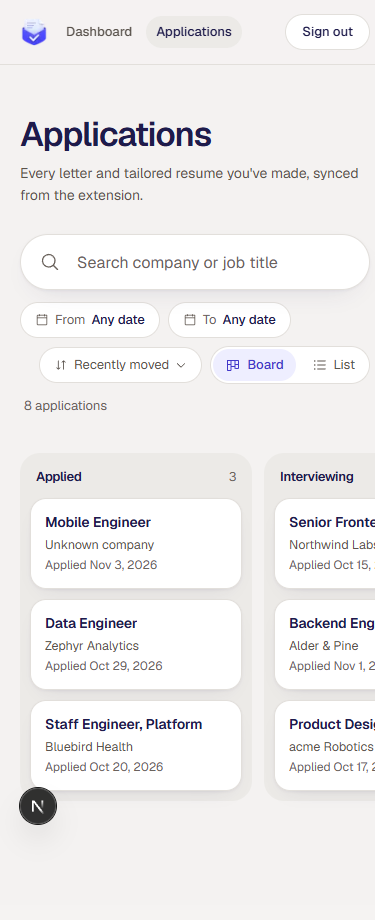
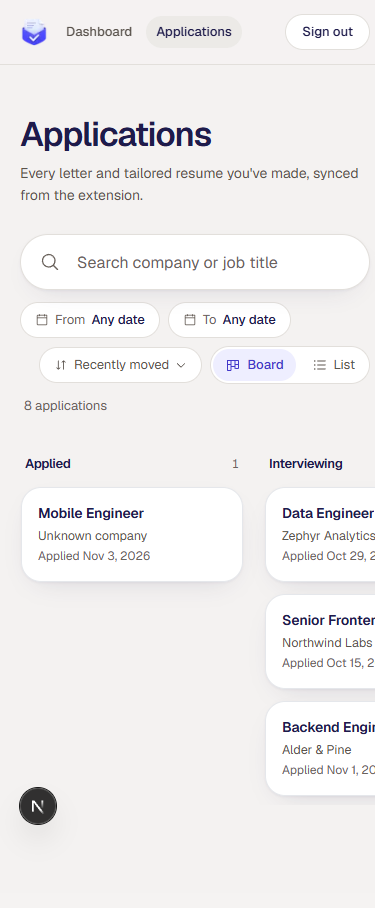
Board review fixes: tiles on paper, ToggleGroup view switch, focus follows a moved card, clearer cap text (#100)

diff --git a/web/app/dashboard/applications/ApplicationsBrowser.tsx b/web/app/dashboard/applications/ApplicationsBrowser.tsx
@@ -7,8 +7,9 @@ import { Button } from '@/components/ui/button'
 import { DropdownMenu, DropdownMenuContent, DropdownMenuLabel, DropdownMenuRadioGroup, DropdownMenuRadioItem, DropdownMenuTrigger } from '@/components/ui/dropdown-menu'
 import { Input } from '@/components/ui/input'
 import { Toggle } from '@/components/ui/toggle'
+import { ToggleGroup, ToggleGroupItem } from '@/components/ui/toggle-group'
 import { dayRange, PAGE_LIMIT, SORT_LABEL, SORTS, sortApplications, STAGE_LABEL, STAGES, type ApplicationSummary, type ApplicationsPage, type ApplicationsQuery, type Sort, type Stage, type StageState } from '@/lib/applications'
-import { GONE, setStage } from '@/lib/application-actions'
+import { GONE, GONE_MESSAGE, setStage } from '@/lib/application-actions'
 import { createLatestSearch } from '@/lib/latest-search'
 import { ApplicationCard } from './ApplicationCard'
 import { ApplicationsBoard } from './ApplicationsBoard'
@@ -26,6 +27,8 @@ const stored = (key: string) => { try { return localStorage.getItem(key) } catch
 const store = (key: string, value: string) => { try { localStorage.setItem(key, value) } catch { /* not remembered */ } }
 
 const CHIP = 'h-9 gap-1.5 rounded-full border-line bg-surface px-3.5 text-[13px] font-normal text-ink-2 hover:bg-surface hover:text-ink data-[state=on]:border-[color-mix(in_srgb,var(--brand-strong)_40%,transparent)] data-[state=on]:bg-brand-tint data-[state=on]:font-medium data-[state=on]:text-brand-ink'
+
+const VIEW_ITEM = 'h-8 gap-1.5 rounded-full px-3 text-[13px] font-normal text-ink-2 hover:bg-transparent hover:text-ink data-[state=on]:bg-brand-tint data-[state=on]:font-medium data-[state=on]:text-brand-ink'
 
 async function load(query: ApplicationsQuery, signal: AbortSignal): Promise<ApplicationsPage> {
   const params = new URLSearchParams()
@@ -89,7 +92,8 @@ export function ApplicationsBrowser() {
   const range = dayRange(from, to)
   const query: ApplicationsQuery | null = range ? { q: text.trim(), ...range } : null
   const searched = Boolean(text.trim() || from || to)
-  const filtered = searched || (view === 'list' && stages.length > 0)
+  const stageFiltered = view === 'list' && stages.length > 0
+  const filtered = searched || stageFiltered
 
   // The first load runs at once; after that, changes wait for a short pause
   // (typing sends one search per pause, not per keystroke).
@@ -109,7 +113,7 @@ export function ApplicationsBrowser() {
   }
 
   const sorted = useMemo(() => sortApplications(applications, sort), [applications, sort])
-  const listed = view === 'list' && stages.length ? sorted.filter((a) => stages.includes(a.stage)) : sorted
+  const listed = stageFiltered ? sorted.filter((a) => stages.includes(a.stage)) : sorted
 
   function patch(id: string, state: StageState) {
     setApplications((list) => list.map((a) => (a.id === id ? { ...a, ...state } : a)))
@@ -135,23 +139,26 @@ export function ApplicationsBrowser() {
     const n = (moves.current.get(app.id) ?? 0) + 1
     moves.current.set(app.id, n)
     const was: StageState = { stage: app.stage, stageChangedAt: app.stageChangedAt }
-    patch(app.id, { stage, stageChangedAt: new Date().toISOString() })
+    // Kept as staged at once, so a search landing mid-save doesn't pull it back.
+    stageSaved(app.id, { stage, stageChangedAt: new Date().toISOString() })
     try {
       const saved = await setStage(app.id, stage)
       if (moves.current.get(app.id) === n) stageSaved(app.id, saved)
     } catch (e) {
       if (e instanceof Error && e.message === GONE) {
         removed(app.id)
-        toast.success('This application was already deleted.')
+        toast.success(GONE_MESSAGE)
         return
       }
       if (moves.current.get(app.id) !== n) return
-      patch(app.id, was)
+      stageSaved(app.id, was)
       toast.error(`Couldn't move it to ${STAGE_LABEL[stage]}, so it's back in ${STAGE_LABEL[was.stage]}. Try again.`)
     }
   }
 
   const shownCount = view === 'list' ? listed.length : applications.length
+  // The server caps after searching: with a search on, it's the newest matches.
+  const pool = searched ? `the newest ${PAGE_LIMIT} matches` : `your newest ${PAGE_LIMIT}`
   const statusText = !range
     ? 'The From date is after the To date.'
     : status === 'error'
@@ -160,10 +167,10 @@ export function ApplicationsBrowser() {
         ? 'Loading applications'
         : shownCount === 0
           ? (filtered ? 'No applications match' : 'No applications yet')
-          : filtered
-            ? `${shownCount} ${shownCount === 1 ? 'matches' : 'match'}${capped ? ` among the newest ${PAGE_LIMIT}` : ''}`
-            : capped
-              ? `Showing your newest ${PAGE_LIMIT}`
+          : capped
+            ? (stageFiltered ? `${shownCount} ${shownCount === 1 ? 'matches' : 'match'}, from ${pool}` : `Showing ${pool}`)
+            : filtered
+              ? `${shownCount} ${shownCount === 1 ? 'matches' : 'match'}`
               : `${shownCount} application${shownCount === 1 ? '' : 's'}`
   // Stays visible while a search loads (its text says so), so the bar keeps its height.
   const counted = range && status !== 'error' && shownCount > 0
@@ -172,7 +179,8 @@ export function ApplicationsBrowser() {
     setText('')
     setFrom('')
     setTo('')
-    setStages([])
+    // The board hides the stage filters, so its Clear leaves them for the list.
+    if (view === 'list') setStages([])
   }
 
   const dimmed = status === 'loading'
@@ -241,20 +249,18 @@ export function ApplicationsBrowser() {
                   </DropdownMenuRadioGroup>
                 </DropdownMenuContent>
               </DropdownMenu>
-              <div role="group" aria-label="View" className="flex items-center gap-1 rounded-full border border-line bg-surface p-0.5">
-                {(['board', 'list'] as const).map((v) => (
-                  <Toggle
-                    key={v}
-                    pressed={view === v}
-                    onPressedChange={(pressed) => { if (pressed) chooseView(v) }}
-                    size="sm"
-                    className="h-8 gap-1.5 rounded-full px-3 text-[13px] font-normal text-ink-2 hover:bg-transparent hover:text-ink data-[state=on]:bg-brand-tint data-[state=on]:font-medium data-[state=on]:text-brand-ink"
-                  >
-                    {v === 'board' ? <KanbanIcon size={15} aria-hidden /> : <ListBulletsIcon size={15} aria-hidden />}
-                    {v === 'board' ? 'Board' : 'List'}
-                  </Toggle>
-                ))}
-              </div>
+              <ToggleGroup
+                type="single"
+                aria-label="View"
+                value={view}
+                // Clicking the pressed one would leave neither on: ignored.
+                onValueChange={(value) => { if (value) chooseView(value as View) }}
+                size="sm"
+                className="gap-1 rounded-full border border-line bg-surface p-0.5"
+              >
+                <ToggleGroupItem value="board" className={VIEW_ITEM}><KanbanIcon size={15} aria-hidden />Board</ToggleGroupItem>
+                <ToggleGroupItem value="list" className={VIEW_ITEM}><ListBulletsIcon size={15} aria-hidden />List</ToggleGroupItem>
+              </ToggleGroup>
             </div>
           )}
         </div>
@@ -292,7 +298,7 @@ export function ApplicationsBrowser() {
         // The old results, dimmed and out of reach until the new ones replace them.
         <div inert={dimmed} className={dimmed ? 'opacity-60 transition-opacity' : 'transition-opacity'}>
           {view === 'board' ? (
-            <ApplicationsBoard applications={sorted} onMove={move} onDeleted={removed} onStageChange={stageSaved} filtered={searched} />
+            <ApplicationsBoard applications={sorted} onMove={move} onDeleted={removed} onStageChange={stageSaved} />
           ) : (
             <div className="grid grid-cols-1 gap-4 md:grid-cols-2">
               {listed.map((app) => (

diff --git a/web/app/dashboard/applications/ApplicationsBoard.tsx b/web/app/dashboard/applications/ApplicationsBoard.tsx
@@ -1,6 +1,6 @@
 'use client'
 
-import { useState, type ReactNode } from 'react'
+import { useEffect, useRef, useState, type ReactNode } from 'react'
 import { DndContext, DragOverlay, MouseSensor, useDraggable, useDroppable, useSensor, useSensors, type Announcements } from '@dnd-kit/core'
 import { STAGE_LABEL, STAGES, type ApplicationSummary, type Stage, type StageState } from '@/lib/applications'
 import { cn } from '@/lib/utils'
@@ -33,16 +33,29 @@ const announcements: Announcements = {
 // A column for each stage. Dragging a card to another column moves it there
 // (onMove); within a column the cards keep the page's sort. Mouse only: on a
 // keyboard or touch screen the card opens the drawer, which has the stage menu.
-export function ApplicationsBoard({ applications, onMove, onDeleted, onStageChange, filtered }: {
+export function ApplicationsBoard({ applications, onMove, onDeleted, onStageChange }: {
   applications: ApplicationSummary[] // sorted
   onMove: (app: ApplicationSummary, stage: Stage) => void
   onDeleted: (id: string) => void
   onStageChange: (id: string, state: StageState) => void
-  filtered: boolean // a search or dates are on, so an empty column may just mean no matches
 }) {
   // A few pixels before a drag starts, so a click still opens the drawer.
   const sensors = useSensors(useSensor(MouseSensor, { activationConstraint: { distance: 6 } }))
   const [active, setActive] = useState<ApplicationSummary | null>(null)
+
+  // A stage changed from the drawer reaches the board as it closes, and the
+  // card remounts in its new column: focus follows it there instead of
+  // dropping to the page.
+  const refocus = useRef<string | null>(null)
+  useEffect(() => {
+    if (!refocus.current) return
+    document.querySelector<HTMLElement>(`[data-card="${refocus.current}"]`)?.focus()
+    refocus.current = null
+  })
+  function stageChanged(id: string, state: StageState) {
+    refocus.current = id
+    onStageChange(id, state)
+  }
 
   return (
     <DndContext
@@ -57,18 +70,16 @@ export function ApplicationsBoard({ applications, onMove, onDeleted, onStageChan
       }}
     >
       {/* All four columns fit from about 1000px wide; narrower screens scroll them sideways. */}
-      <div className="-mx-5 grid auto-cols-[minmax(232px,1fr)] grid-flow-col gap-3 overflow-x-auto px-5 pb-2">
+      <div className="-mx-5 -my-2 grid auto-cols-[minmax(224px,1fr)] grid-flow-col gap-5 overflow-x-auto px-5 py-2">
         {STAGES.map((stage) => {
           const cards = applications.filter((a) => a.stage === stage)
           return (
-            <Column key={stage} stage={stage} count={cards.length}>
+            <Column key={stage} stage={stage} count={cards.length} dragging={active !== null}>
               {cards.length === 0 ? (
-                <p className="rounded-[14px] border border-dashed border-line px-3 py-4 text-[13px] leading-snug text-ink-2">
-                  {filtered ? 'None match here.' : EMPTY[stage]}
-                </p>
+                <p className="rounded-[20px] border border-dashed border-line px-4 py-5 text-[13px] leading-snug text-ink-2">{EMPTY[stage]}</p>
               ) : cards.map((app) => (
                 <Draggable key={app.id} app={app}>
-                  <ApplicationCard app={app} compact onDeleted={onDeleted} onStageChange={onStageChange} />
+                  <ApplicationCard app={app} compact onDeleted={onDeleted} onStageChange={stageChanged} />
                 </Draggable>
               ))}
             </Column>
@@ -78,7 +89,7 @@ export function ApplicationsBoard({ applications, onMove, onDeleted, onStageChan
       {/* No drop animation: the card is already in its new column. */}
       <DragOverlay dropAnimation={null}>
         {active && (
-          <div className="cursor-grabbing rounded-[16px] border border-line bg-surface p-3.5 shadow-[0_2px_4px_rgba(30,27,75,0.08),0_22px_40px_-16px_rgba(30,27,75,0.4)]">
+          <div className="cursor-grabbing rounded-[20px] border border-line/80 bg-surface p-4 shadow-[0_1px_2px_rgba(30,27,75,0.06),0_16px_36px_-16px_rgba(30,27,75,0.32)]">
             <p className="line-clamp-2 text-[14px] font-semibold leading-snug text-ink">{active.title || 'Untitled role'}</p>
             <p className="truncate text-[12.5px] text-ink-2">{active.company || 'Unknown company'}</p>
           </div>
@@ -88,15 +99,22 @@ export function ApplicationsBoard({ applications, onMove, onDeleted, onStageChan
   )
 }
 
-function Column({ stage, count, children }: { stage: Stage; count: number; children: ReactNode }) {
+// Tiles sit on paper (DESIGN.md's Floating Tile Rule). While a card is
+// dragged, each column shows a dashed outline as a place it can go, and the
+// one under the pointer turns Cover Me Indigo.
+function Column({ stage, count, dragging, children }: { stage: Stage; count: number; dragging: boolean; children: ReactNode }) {
   const { setNodeRef, isOver } = useDroppable({ id: stage })
   return (
     <section
       ref={setNodeRef}
       aria-labelledby={`stage-${stage}`}
-      className={cn('flex min-h-[220px] flex-col gap-2.5 rounded-[20px] bg-panel p-2.5 transition-shadow', isOver && 'ring-2 ring-brand')}
+      className={cn(
+        '-m-2 flex min-h-[220px] flex-col gap-3 rounded-[20px] border border-dashed border-transparent p-2 transition-colors',
+        dragging && 'border-line',
+        isOver && 'border-brand-strong',
+      )}
     >
-      <h2 id={`stage-${stage}`} className="flex items-baseline justify-between px-1.5 pt-1 text-[13px] font-semibold text-ink">
+      <h2 id={`stage-${stage}`} className="flex items-baseline justify-between px-1 text-[13px] font-semibold text-ink">
         {STAGE_LABEL[stage]}
         <span className="text-[12.5px] font-normal tabular-nums text-subtle">{count}</span>
       </h2>

diff --git a/web/app/dashboard/applications/ApplicationCard.tsx b/web/app/dashboard/applications/ApplicationCard.tsx
@@ -9,7 +9,7 @@ import { Button } from '@/components/ui/button'
 import { DropdownMenu, DropdownMenuContent, DropdownMenuItem, DropdownMenuSeparator, DropdownMenuTrigger } from '@/components/ui/dropdown-menu'
 import { Spinner } from '@/components/ui/spinner'
 import { newest, postingHost, STAGE_LABEL, type ApplicationSummary, type Stage, type StageState } from '@/lib/applications'
-import { deleteApplication, downloadLetter, downloadResume, GONE, loadDetail, setStage } from '@/lib/application-actions'
+import { deleteApplication, downloadLetter, downloadResume, GONE, GONE_MESSAGE, loadDetail, setStage } from '@/lib/application-actions'
 import { LocalDate } from '../LocalDate'
 import { ApplicationDetailsSheet } from './ApplicationDetailsSheet'
 import { AtsRing } from './AtsRing'
@@ -17,7 +17,6 @@ import { StageMenu } from './StageMenu'
 
 type Busy = 'letter' | 'resume' | 'stage' | 'delete' | null
 const UNREADABLE = 'unreadable'
-const GONE_MESSAGE = 'This application was already deleted.'
 
 // One application. After a delete it tells the list (onDeleted), or refreshes
 // the server-rendered page when there's no list to tell, and renders nothing.
@@ -177,11 +176,11 @@ export function ApplicationCard({ app: initial, onDeleted, onStageChange, compac
 
   if (compact) {
     return (
-      <article className="relative flex flex-col gap-1 rounded-[16px] border border-line bg-surface p-3.5 shadow-[0_1px_2px_rgba(30,27,75,0.05),0_8px_20px_-14px_rgba(30,27,75,0.22)] transition-shadow duration-200 ease-out hover:shadow-[0_1px_2px_rgba(30,27,75,0.06),0_14px_28px_-14px_rgba(30,27,75,0.32)]">
+      <article className="relative flex flex-col gap-1 rounded-[20px] border border-line/80 bg-surface p-4 shadow-[0_1px_2px_rgba(30,27,75,0.05),0_10px_28px_-16px_rgba(30,27,75,0.22)] transition-shadow duration-200 ease-out hover:shadow-[0_1px_2px_rgba(30,27,75,0.06),0_16px_36px_-16px_rgba(30,27,75,0.32)]">
         <div className="flex items-start gap-2">
           <h3 className="min-w-0 flex-1 text-[14px] font-semibold leading-snug tracking-[-0.01em] text-ink">
             {/* Covers the whole card, so a click anywhere opens the drawer. */}
-            <button type="button" onClick={() => setDetailsOpen(true)} className="line-clamp-2 text-left after:absolute after:inset-0 after:rounded-[16px] focus-visible:outline-none focus-visible:after:ring-2 focus-visible:after:ring-brand">
+            <button type="button" data-card={app.id} onClick={() => setDetailsOpen(true)} className="line-clamp-2 text-left after:absolute after:inset-0 after:rounded-[20px] focus-visible:outline-none focus-visible:after:ring-2 focus-visible:after:ring-brand">
               {title}
             </button>
           </h3>

diff --git a/web/components/ui/toggle-group.tsx b/web/components/ui/toggle-group.tsx
@@ -1,0 +1,61 @@
+"use client"
+
+import * as React from "react"
+import * as ToggleGroupPrimitive from "@radix-ui/react-toggle-group"
+import { type VariantProps } from "class-variance-authority"
+
+import { cn } from "@/lib/utils"
+import { toggleVariants } from "@/components/ui/toggle"
+
+const ToggleGroupContext = React.createContext<
+  VariantProps<typeof toggleVariants>
+>({
+  size: "default",
+  variant: "default",
+})
+
+const ToggleGroup = React.forwardRef<
+  React.ElementRef<typeof ToggleGroupPrimitive.Root>,
+  React.ComponentPropsWithoutRef<typeof ToggleGroupPrimitive.Root> &
+    VariantProps<typeof toggleVariants>
+>(({ className, variant, size, children, ...props }, ref) => (
+  <ToggleGroupPrimitive.Root
+    ref={ref}
+    className={cn("flex items-center justify-center gap-1", className)}
+    {...props}
+  >
+    <ToggleGroupContext.Provider value={{ variant, size }}>
+      {children}
+    </ToggleGroupContext.Provider>
+  </ToggleGroupPrimitive.Root>
+))
+
+ToggleGroup.displayName = ToggleGroupPrimitive.Root.displayName
+
+const ToggleGroupItem = React.forwardRef<
+  React.ElementRef<typeof ToggleGroupPrimitive.Item>,
+  React.ComponentPropsWithoutRef<typeof ToggleGroupPrimitive.Item> &
+    VariantProps<typeof toggleVariants>
+>(({ className, children, variant, size, ...props }, ref) => {
+  const context = React.useContext(ToggleGroupContext)
+
+  return (
+    <ToggleGroupPrimitive.Item
+      ref={ref}
+      className={cn(
+        toggleVariants({
+          variant: context.variant || variant,
+          size: context.size || size,
+        }),
+        className
+      )}
+      {...props}
+    >
+      {children}
+    </ToggleGroupPrimitive.Item>
+  )
+})
+
+ToggleGroupItem.displayName = ToggleGroupPrimitive.Item.displayName
+
+export { ToggleGroup, ToggleGroupItem }

diff --git a/web/lib/application-actions.ts b/web/lib/application-actions.ts
@@ -20,6 +20,7 @@ async function call(path: string, init?: RequestInit): Promise<Response> {
 // The message of the error thrown when the application is gone (404): deleted
 // from another device or tab since the list loaded.
 export const GONE = 'gone'
+export const GONE_MESSAGE = 'This application was already deleted.'
 
 // Each application's detail is fetched once and kept for the visit: the
 // drawer and both Download buttons share it. It's kept against the letter and

diff --git a/DESIGN.md b/DESIGN.md
@@ -177,7 +177,7 @@ Indigo is used sparingly and mostly as a tint. Solid indigo marks the one primar
 Warm neutrals with Cover Me indigo as the only accent, and orange reserved for ATS gaps. Values are the ones in BRAND.md and `globals.css`; the app adds no new colors.
 
 ### Primary
-- **Cover Me Indigo** (`brand-strong`) is the solid fill of the primary button, the Pro badge and the usage bar, and the color of text links ("See all", "Install the extension", the posting host in the drawer). It also tints the hover border and text of document chips.
+- **Cover Me Indigo** (`brand-strong`) is the solid fill of the primary button, the Pro badge and the usage bar, and the color of text links ("See all", "Install the extension", the posting host in the drawer). It also tints the hover border and text of document chips, and the outline of the board column a card is dragged over.
 - **Pressed Indigo** (`brand-deep`) is the primary button's hover fill.
 - **Signal Indigo** (`brand`) is for focus rings only (the search's focus ring and the global button ring). It never colors text.
 - **Indigo Tint** (`brand-tint`) with **Indigo Ink** (`brand-ink`) mark Cover Me's output and active state: company monograms, the avatar fallback, the ATS score in the Resume chip and in the drawer, and a date or stage filter that is set.
@@ -260,7 +260,7 @@ The tile's signature: an outline pill per document with a download icon ("Cover 
 36px white pills under the search: two date pickers ("From Any date", "To Any date") and, in the list, one toggle per stage (Applied, Interviewing, Offer, Closed), any number on at once. Idle text is Warm Grey with a Caption Grey label. When set, the chip fills with Indigo Tint, a 40% indigo border and Indigo Ink text, and a toggle gains a check. A ghost "Clear" pill appears only while a filter is set. Date chips open the shadcn Calendar in a Popover. At the row's right end: the sort pill (an outline pill with a sort icon, opening a radio list) and the Board / List switch, two toggles in one white pill with the active one on Indigo Tint.
 
 ### Board
-Four columns, one per stage, each a Soft Panel well with 20px corners, its name in 13px semibold Deep Ink and a Caption Grey count. Board cards are slim white tiles (16px corners, 14px padding): title, company, applied date, and a small ATS ring when there is a score. The whole card opens the drawer; dragging it with a mouse moves it to another column, which takes a Signal Indigo ring while a card is over it. An empty column holds a dashed note saying what puts a card there. Below about 1000px wide the columns scroll sideways. Board is the default from 768px, List below.
+Four columns, one per stage, headed by its name in 13px semibold Deep Ink and a Caption Grey count. The columns have no fill (the Floating Tile Rule). Board cards are slim white tiles (20px corners, 16px padding, tile shadows): title, company, applied date, and a small ATS ring when there is a score. The whole card opens the drawer; dragging it with a mouse moves it to another column. While a card is dragged every column shows a 20px dashed hairline outline, as a place it can go, and the one under the pointer turns Cover Me Indigo. An empty column holds a dashed note saying what puts a card there. Below about 1000px wide the columns scroll sideways. Board is the default from 768px, List below.
 
 ### Application tile
 White, 20px corners, 20px padding, tile shadow. Top row: the monogram (company initial on Indigo Tint), the job title as a button that opens the drawer, then company and applied date in Warm Grey, and a ghost ⋮ menu (view details, go to posting, delete). Bottom row: document chips on the left; the stage pill and "Details" on the right. On phones "Details" collapses to its caret.
